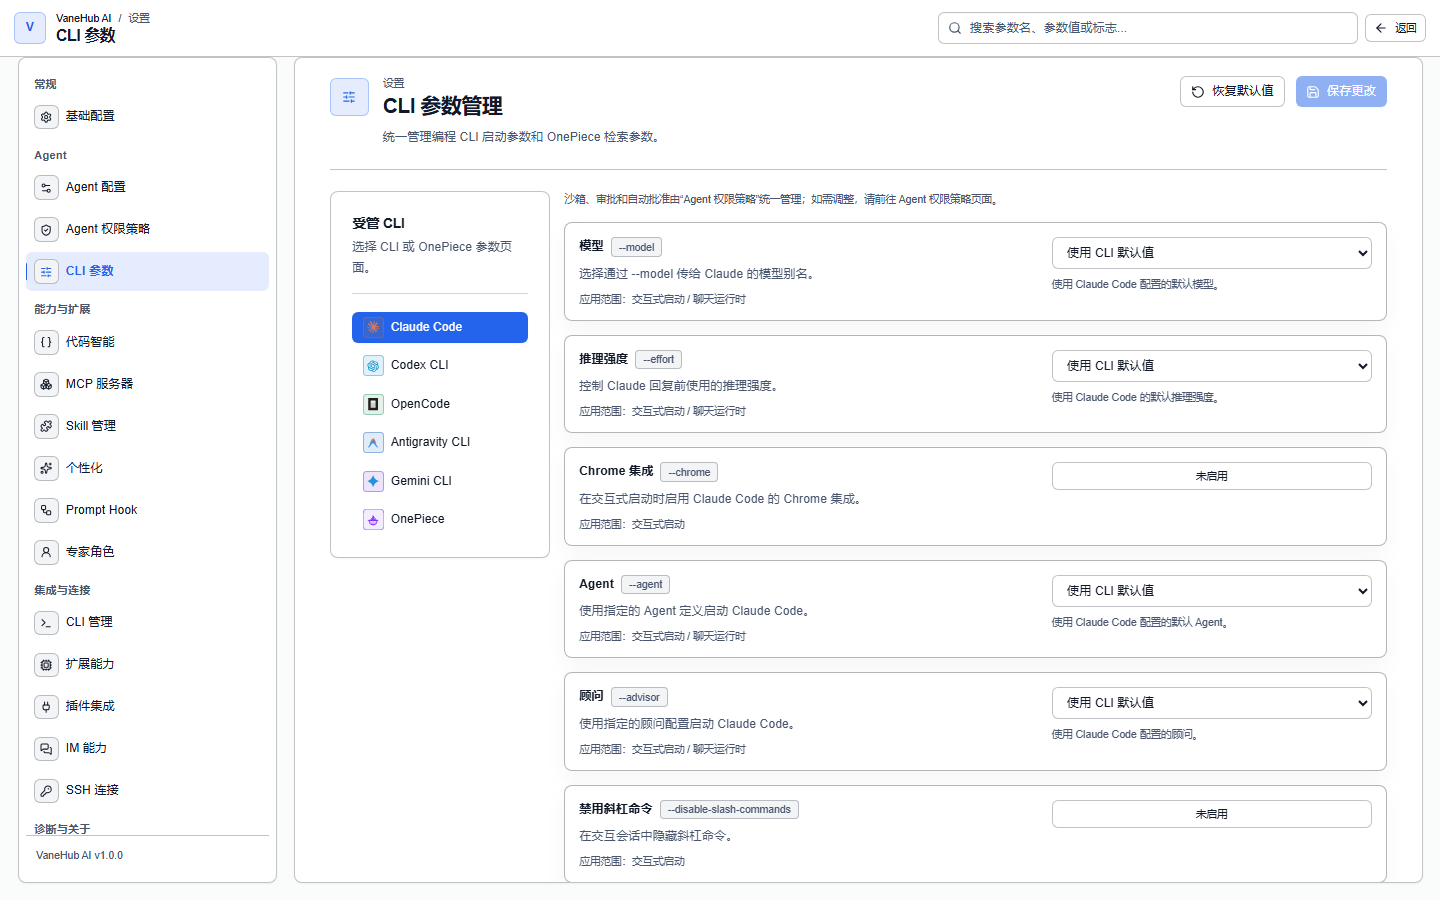
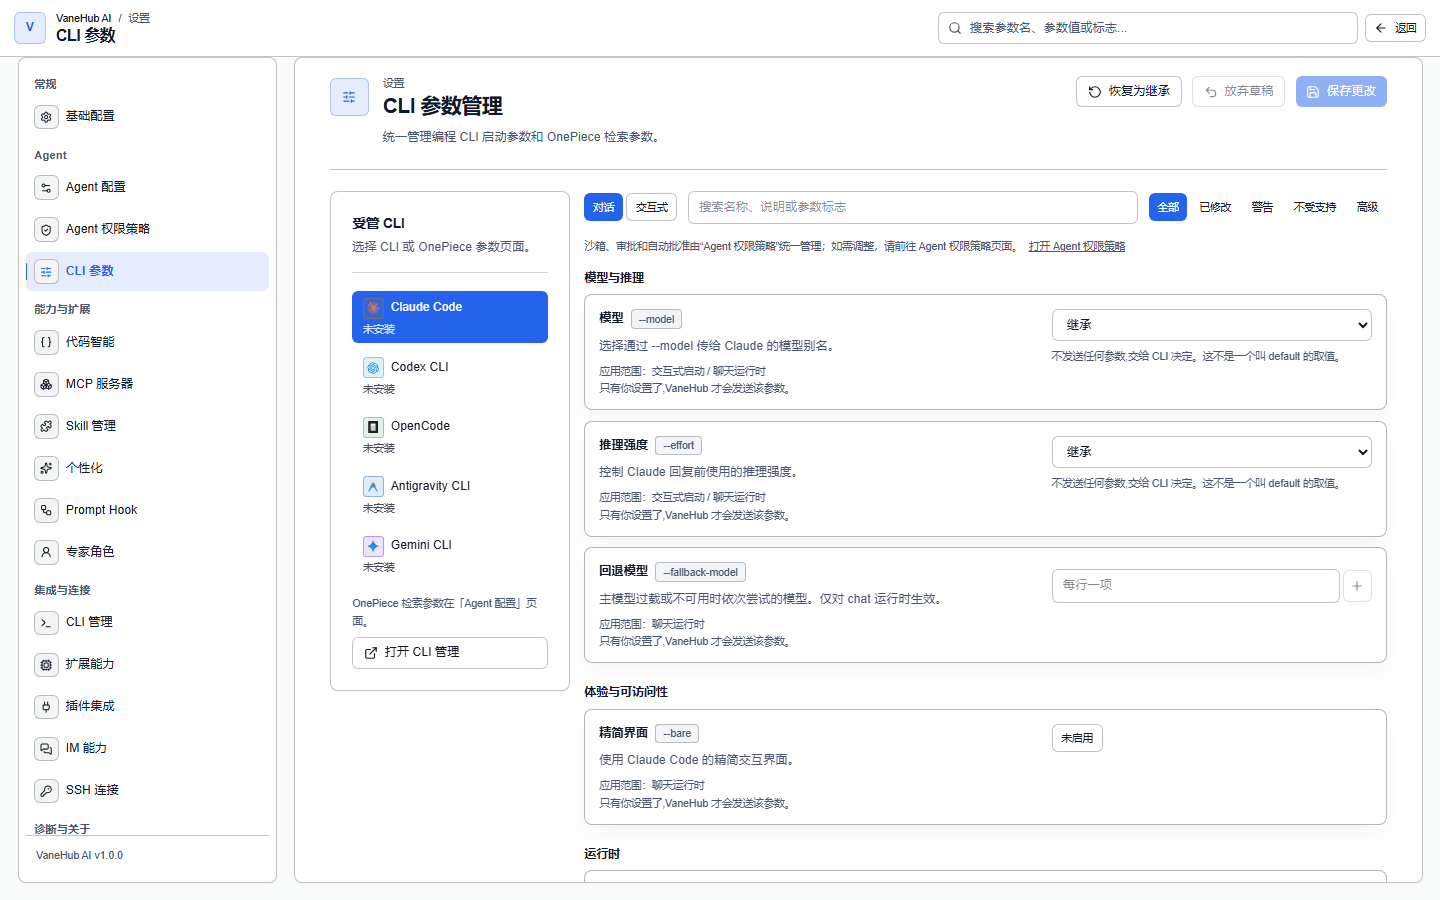
docs(cli-parameters): refresh settings screenshots
Regenerated in a clean `npm ci` worktree from the lockfile, because a contaminated
dependency tree leaves a drift that reads like cross-machine noise.

The capture now waits for the debounced preview to settle. Without that it froze on
the "refreshing" badge and documented a transient state as the resting one.

Recapturing exposed a layout problem the unit tests could not: a bottom-sticky
preview panel floats over the field list, so the image showed it wedged between two
category groups. It now becomes a sticky side column, and only at `2xl` — at 1440 the
field rows already split into label and control, and carving out a third column there
squeezes the descriptions into a vertical ribbon.

Two claims that OnePiece's equivalent configuration lives on this page are corrected:
its retrieval, compaction and context-health parameters moved to Agent configurations
with the rest of OnePiece, and the page links there rather than tabbing it.

Only the two expected images are staged. Each `docs:screenshots:update` run rewrites
all 48 and a rotating handful come back byte-different — `im-*`, `session-logs-*`,
`create-session-*` — while `docs:screenshots:check` had just passed them against the
committed baselines in the same worktree. That is run-to-run rasterization noise, not
content, and it is restored rather than committed.

diff --git a/src/settings/cli-parameters/cli-parameters-page.tsx b/src/settings/cli-parameters/cli-parameters-page.tsx
@@ -233,25 +233,30 @@ export function CliParametersPage({
             </Button>
           </p>
 
-          {activeProfile ? (
-            <CliParameterFieldGroups
-              agentId={activeAgentId}
-              drafts={drafts}
-              filter={filter}
-              profile={activeProfile}
-              query={query}
-              scope={scope}
-            />
-          ) : null}
-
-          {/* Sticky at wide widths, and simply the last block at narrow ones, so the token
-              list never needs a horizontal scrollbar to stay visible. */}
-          <div className="lg:sticky lg:bottom-4">
-            <CliParameterPreviewPanel
-              refreshing={preview.refreshing}
-              segments={preview.preview?.segments ?? null}
-              stale={preview.stale}
-            />
+          {/* Two columns only once there is genuinely room for them. At 1440 the field rows already
+              split into label and control, so carving out a third column there squeezes the
+              descriptions into a vertical ribbon; below `2xl` the preview simply follows the
+              controls, which is also what narrow widths need. */}
+          <div className="grid min-w-0 gap-4 2xl:grid-cols-[minmax(0,1fr)_360px] 2xl:items-start">
+            <div className="min-w-0">
+              {activeProfile ? (
+                <CliParameterFieldGroups
+                  agentId={activeAgentId}
+                  drafts={drafts}
+                  filter={filter}
+                  profile={activeProfile}
+                  query={query}
+                  scope={scope}
+                />
+              ) : null}
+            </div>
+            <div className="min-w-0 2xl:sticky 2xl:top-4">
+              <CliParameterPreviewPanel
+                refreshing={preview.refreshing}
+                segments={preview.preview?.segments ?? null}
+                stale={preview.stale}
+              />
+            </div>
           </div>
         </div>
       </div>

diff --git a/tests/docs/documentation-screenshots.spec.ts b/tests/docs/documentation-screenshots.spec.ts
@@ -212,8 +212,19 @@ const scenarios: Record<string, (page: Page, locale: Locale) => Promise<Locator>
   "settings-agent-configurations": (page, locale) =>
     openSettings(page, "agent-configurations", text(locale, "Agent 配置", "Agent Configurations")),
 
-  "settings-cli-parameters": (page, locale) =>
-    openSettings(page, "cli-parameters", text(locale, "CLI 参数管理", "CLI Parameter Management")),
+  "settings-cli-parameters": async (page, locale) => {
+    const shell = await openSettings(
+      page,
+      "cli-parameters",
+      text(locale, "CLI 参数管理", "CLI Parameter Management"),
+    );
+    // The preview is debounced, so the capture would otherwise freeze on the "refreshing" badge
+    // and document a transient state as if it were the resting one.
+    await expect(
+      shell.getByText(text(locale, "预览刷新中", "Refreshing preview")),
+    ).toHaveCount(0);
+    return shell;
+  },
 
   "settings-personalization": (page, locale) =>
     openSettings(page, "personalization", text(locale, "个性化", "Personalization")),

diff --git a/docs/user-guide/en/src/tooling.md b/docs/user-guide/en/src/tooling.md
@@ -126,7 +126,7 @@ The table above only lists the high-frequency items. The **complete matrix, gene
 
 #### OnePiece's equivalent configuration
 
-OnePiece doesn't go through an external CLI and has none of the command-line parameters above. Its equivalent is a **provider configuration** (managed under **Settings → Agent configurations**): pick an entry from the provider catalog, fill in an API key (validated before saving), discover and select a model, or configure a custom compatible endpoint as needed. See the next section and [Native API Agent](native-agent.md).
+OnePiece doesn't go through an external CLI and has none of the command-line parameters above, so it is not a tab on the CLI Parameters page. Everything it *does* have lives under **Settings → Agent configurations**: the **provider configuration** — pick an entry from the provider catalog, fill in an API key (validated before saving), discover and select a model, or configure a custom compatible endpoint — and, below it, OnePiece's retrieval, context-compaction and context-health parameters. See the next section and [Native API Agent](native-agent.md).
 
 ## Agent configurations
 

diff --git a/docs/user-guide/zh-CN/src/tooling.md b/docs/user-guide/zh-CN/src/tooling.md
@@ -124,7 +124,7 @@ Gemini CLI、OpenCode 与 Antigravity CLI 没有对应的受管 SDK。
 
 #### OnePiece 的等价配置
 
-OnePiece 不走外部 CLI，没有上述命令行参数。它的等价配置是 **provider 配置**（在**设置 → Agent 配置**里管理）：选 provider 目录条目、填 API Key（保存前校验）、发现并选定模型、按需配自定义兼容端点。见下一节与[原生 API Agent](native-agent.md)。
+OnePiece 不走外部 CLI，没有上述命令行参数，因此它不是 CLI 参数页上的一个标签页。它真正有的配置全在**设置 → Agent 配置**里：**provider 配置**（选 provider 目录条目、填 API Key（保存前校验）、发现并选定模型、按需配自定义兼容端点），以及排在其下方的 OnePiece 检索、上下文压缩与上下文健康参数。见下一节与[原生 API Agent](native-agent.md)。
 
 ## Agent 配置
 

diff --git a/docs/user-guide/en/src/getting-started.md b/docs/user-guide/en/src/getting-started.md
@@ -193,7 +193,7 @@ If an Agent asks you to sign in during a session, complete authentication in tha
 
 ## CLI launch parameters
 
-Each CLI's own command-line parameters, how to configure launch parameters inside VaneHub AI, and OnePiece's equivalent configuration are all collected under [Tools and extensions → CLI parameters](tooling.md#cli-parameters).
+Each CLI's own command-line parameters and how to configure launch parameters inside VaneHub AI are collected under [Tools and extensions → CLI parameters](tooling.md#cli-parameters). OnePiece has no CLI and therefore no launch parameters; its equivalent configuration lives under [Agent configurations](tooling.md#agent-configurations).
 
 ## Web preview
 
